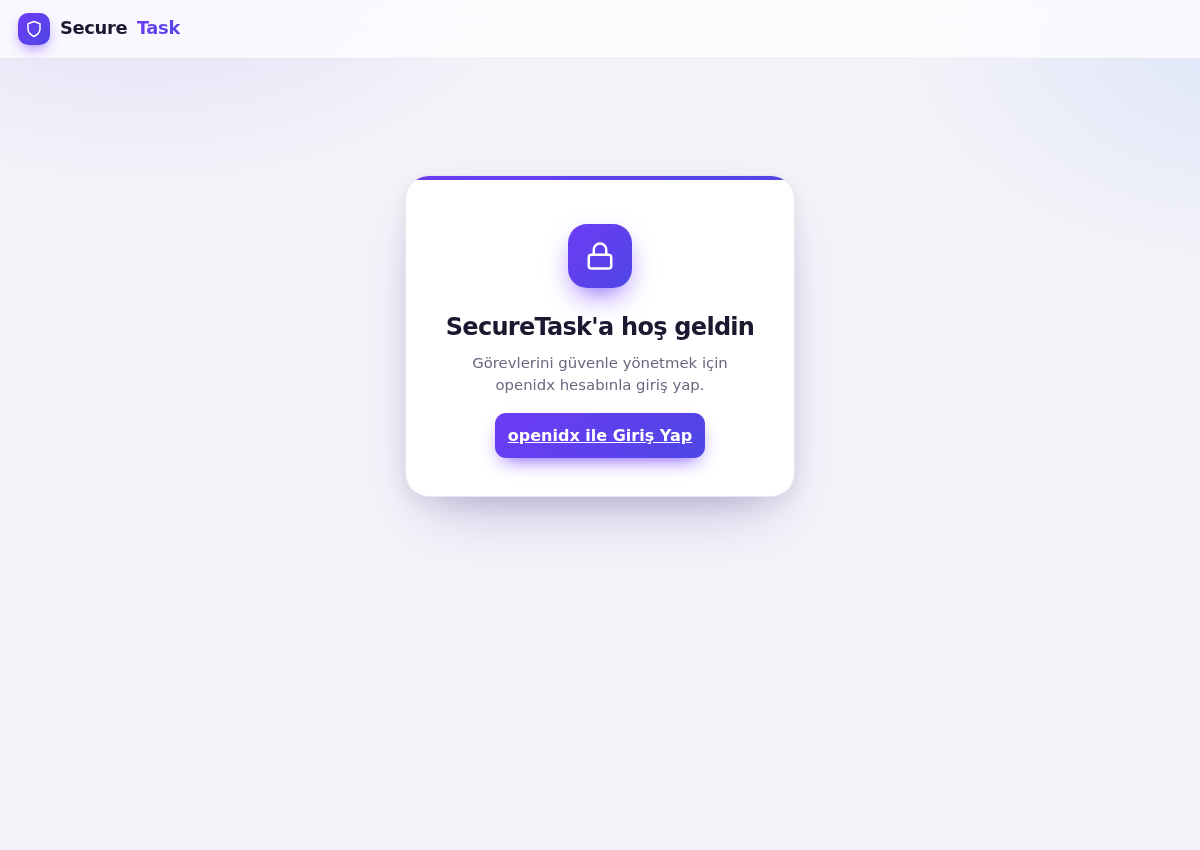
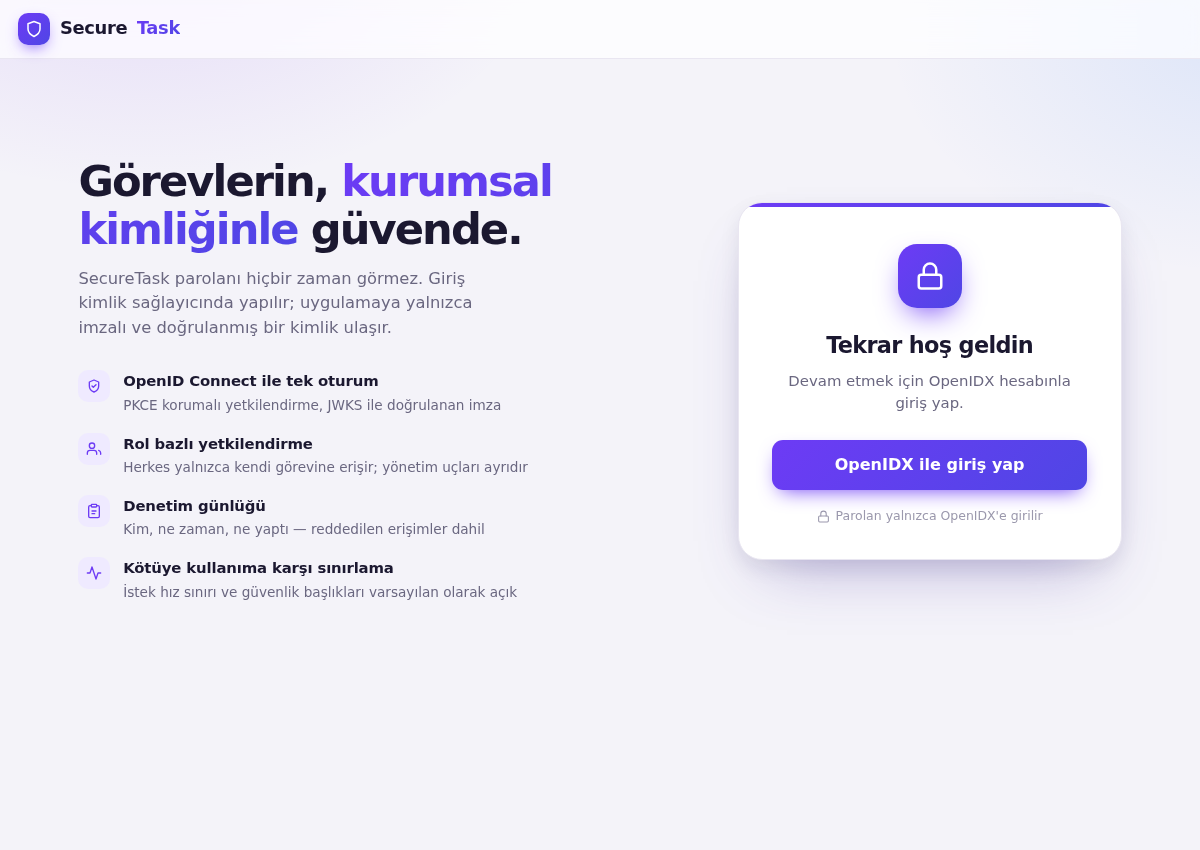
Give the landing page something to say
The sign-in card sat alone in a 640px column, leaving most of the screen empty
and the product unexplained: a visitor saw a lock icon and a button. The landing
page is now two columns — what SecureTask is and what protects it on the left,
the sign-in card on the right — while the signed-in app keeps its single
readable column.

The sign-in button was an <a> styled as .btn, so it arrived underlined and
inline, ignoring its own width. .btn now sets display, alignment and
text-decoration, which fixes every anchor that uses it.

Stacked on a narrow screen the card comes first: people arrive here to sign in,
not to read.

Changed region(s): [[0.0617, 0.1835, 0.925, 0.7035], [0.6167, 0.6424, 0.925, 0.7035], [0.0925, 0.52, 0.2775, 0.5506]]

diff --git a/app/static/index.html b/app/static/index.html
@@ -94,10 +94,15 @@
     color: var(--accent); background: var(--accent-soft); padding: .14rem .4rem; border-radius: 5px;
   }
 
-  main { max-width: 640px; margin: 0 auto; padding: 1.6rem 1.15rem 5rem; }
+  /* The signed-in app stays a single readable column; the landing page needs the
+     full width for its two-column layout, so the limit lives on the view. */
+  main { max-width: 1080px; margin: 0 auto; padding: 1.6rem 1.15rem 5rem; }
+  #appView { max-width: 640px; margin: 0 auto; }
 
   .btn {
     font: inherit; font-weight: 600; cursor: pointer; border: none; border-radius: 11px;
+    /* Also used on <a>, which would otherwise arrive underlined and inline. */
+    display: inline-block; text-align: center; text-decoration: none;
     padding: .62rem 1.1rem; color: var(--accent-ink);
     background: linear-gradient(135deg, var(--accent), var(--accent-2));
     box-shadow: 0 8px 20px -8px var(--accent);
@@ -248,10 +253,53 @@
   .audit-row .when { color: var(--faint); font-size: .78rem; font-variant-numeric: tabular-nums; flex-shrink: 0; }
 
   /* login */
-  .login { display: grid; place-items: center; min-height: 66vh; }
+  .login {
+    /* minmax(0,…) not 1fr: a bare 1fr track cannot shrink below its content's
+       min-content width, which pushes the layout wider than a narrow screen. */
+    display: grid; grid-template-columns: minmax(0, 1fr) min(384px, 100%);
+    gap: 3.2rem; align-items: center; padding: 2.4rem 0 1rem;
+    min-height: calc(100vh - 12rem);
+  }
+  /* min() rather than a flat rem: on a narrow screen a fixed rem width is wider
+     than the viewport and the text overflows off the right edge. */
+  .pitch { max-width: min(31rem, 100%); }
+  .pitch h1 {
+    margin: 0 0 .85rem; font-size: clamp(1.95rem, 4.2vw, 2.7rem);
+    line-height: 1.1; letter-spacing: -.045em;
+  }
+  .pitch h1 em {
+    font-style: normal;
+    background: linear-gradient(135deg, var(--accent), var(--accent-2));
+    -webkit-background-clip: text; background-clip: text; -webkit-text-fill-color: transparent;
+  }
+  .pitch .lede { color: var(--muted); font-size: 1.02rem; margin: 0 0 1.9rem; max-width: 27rem; }
+  .feats { list-style: none; margin: 0; padding: 0; display: grid; gap: 1rem; }
+  .feats li { display: flex; gap: .8rem; align-items: flex-start; }
+  /* Same reason: a flex item's automatic minimum is its min-content width. */
+  .feats li > div { min-width: 0; }
+  .feats .ic {
+    flex-shrink: 0; width: 32px; height: 32px; border-radius: 10px; display: grid; place-items: center;
+    background: var(--accent-soft); color: var(--accent);
+  }
+  .feats .ic svg { width: 16px; height: 16px; }
+  .feats b { display: block; font-size: .93rem; letter-spacing: -.01em; }
+  .feats span { color: var(--muted); font-size: .85rem; }
+
+  @media (max-width: 900px) {
+    .login {
+      grid-template-columns: minmax(0, 1fr); gap: 2.2rem; justify-items: center;
+      padding-top: 1rem; min-height: 0;
+    }
+    /* Stacked, the sign-in card leads: people come here to log in, not to read. */
+    .login-card { order: -1; max-width: 384px; }
+    .pitch { text-align: center; }
+    .pitch .lede { margin-inline: auto; }
+    .feats { text-align: left; max-width: min(25rem, 100%); margin-inline: auto; }
+  }
+
   .login-card {
     background: var(--card); border: 1px solid var(--line); border-radius: 24px;
-    padding: 3rem 2.3rem; text-align: center; max-width: 390px; box-shadow: var(--sh-lg); position: relative; overflow: hidden;
+    padding: 2.6rem 2.1rem 2.1rem; text-align: center; width: 100%; box-shadow: var(--sh-lg); position: relative; overflow: hidden;
   }
   .login-card::after {
     content: ""; position: absolute; inset: 0 0 auto 0; height: 4px;
@@ -262,9 +310,14 @@
     background: linear-gradient(135deg, var(--accent), var(--accent-2)); color: #fff; box-shadow: 0 12px 30px -10px var(--accent);
   }
   .login-card .lock svg { width: 30px; height: 30px; }
-  .login-card h1 { margin: 0 0 .45rem; font-size: 1.5rem; letter-spacing: -.03em; }
-  .login-card p { color: var(--muted); margin: 0 0 1.7rem; font-size: .93rem; }
-  .login-card .btn { width: 100%; padding: .8rem; font-size: 1rem; }
+  .login-card h2 { margin: 0 0 .45rem; font-size: 1.4rem; letter-spacing: -.03em; }
+  .login-card p { color: var(--muted); margin: 0 0 1.6rem; font-size: .93rem; }
+  .login-card .btn { width: 100%; padding: .82rem; font-size: 1rem; }
+  .login-card .fine {
+    display: flex; align-items: center; justify-content: center; gap: .38rem;
+    margin: 1.05rem 0 0; font-size: .78rem; color: var(--faint);
+  }
+  .login-card .fine svg { width: 13px; height: 13px; flex-shrink: 0; }
 
   .toast {
     position: fixed; bottom: 1.4rem; left: 50%; transform: translateX(-50%) translateY(10px);
@@ -323,11 +376,41 @@
 <main>
   <!-- Logged out -->
   <section id="loginView" class="login hidden">
+    <div class="pitch">
+      <h1>Görevlerin, <em>kurumsal kimliğinle</em> güvende.</h1>
+      <p class="lede">
+        SecureTask parolanı hiçbir zaman görmez. Giriş kimlik sağlayıcında yapılır;
+        uygulamaya yalnızca imzalı ve doğrulanmış bir kimlik ulaşır.
+      </p>
+      <ul class="feats">
+        <li>
+          <span class="ic"><svg viewBox="0 0 24 24" fill="none" stroke="currentColor" stroke-width="2" stroke-linecap="round" stroke-linejoin="round"><path d="M12 3l7 3v6c0 4.4-3 7.6-7 9-4-1.4-7-4.6-7-9V6l7-3Z"/><path d="m9 12 2 2 4-4"/></svg></span>
+          <div><b>OpenID Connect ile tek oturum</b><span>PKCE korumalı yetkilendirme, JWKS ile doğrulanan imza</span></div>
+        </li>
+        <li>
+          <span class="ic"><svg viewBox="0 0 24 24" fill="none" stroke="currentColor" stroke-width="2" stroke-linecap="round" stroke-linejoin="round"><path d="M16 20v-2a4 4 0 0 0-4-4H6a4 4 0 0 0-4 4v2"/><circle cx="9" cy="7" r="4"/><path d="M22 20v-2a4 4 0 0 0-3-3.87"/></svg></span>
+          <div><b>Rol bazlı yetkilendirme</b><span>Herkes yalnızca kendi görevine erişir; yönetim uçları ayrıdır</span></div>
+        </li>
+        <li>
+          <span class="ic"><svg viewBox="0 0 24 24" fill="none" stroke="currentColor" stroke-width="2" stroke-linecap="round" stroke-linejoin="round"><rect x="8" y="2" width="8" height="4" rx="1"/><path d="M16 4h2a2 2 0 0 1 2 2v14a2 2 0 0 1-2 2H6a2 2 0 0 1-2-2V6a2 2 0 0 1 2-2h2"/><path d="M9 12h6M9 16h4"/></svg></span>
+          <div><b>Denetim günlüğü</b><span>Kim, ne zaman, ne yaptı — reddedilen erişimler dahil</span></div>
+        </li>
+        <li>
+          <span class="ic"><svg viewBox="0 0 24 24" fill="none" stroke="currentColor" stroke-width="2" stroke-linecap="round" stroke-linejoin="round"><path d="M22 12h-4l-3 9L9 3l-3 9H2"/></svg></span>
+          <div><b>Kötüye kullanıma karşı sınırlama</b><span>İstek hız sınırı ve güvenlik başlıkları varsayılan olarak açık</span></div>
+        </li>
+      </ul>
+    </div>
+
     <div class="login-card">
       <div class="lock"><svg viewBox="0 0 24 24" fill="none" stroke="currentColor" stroke-width="2" stroke-linecap="round" stroke-linejoin="round"><rect x="3" y="11" width="18" height="11" rx="2"/><path d="M7 11V7a5 5 0 0 1 10 0v4"/></svg></div>
-      <h1>SecureTask'a hoş geldin</h1>
-      <p>Görevlerini güvenle yönetmek için openidx hesabınla giriş yap.</p>
-      <a class="btn" href="/auth/login">openidx ile Giriş Yap</a>
+      <h2>Tekrar hoş geldin</h2>
+      <p>Devam etmek için OpenIDX hesabınla giriş yap.</p>
+      <a class="btn" href="/auth/login">OpenIDX ile giriş yap</a>
+      <p class="fine">
+        <svg viewBox="0 0 24 24" fill="none" stroke="currentColor" stroke-width="2" stroke-linecap="round" stroke-linejoin="round"><rect x="3" y="11" width="18" height="11" rx="2"/><path d="M7 11V7a5 5 0 0 1 10 0v4"/></svg>
+        Parolan yalnızca OpenIDX'e girilir
+      </p>
     </div>
   </section>
 
